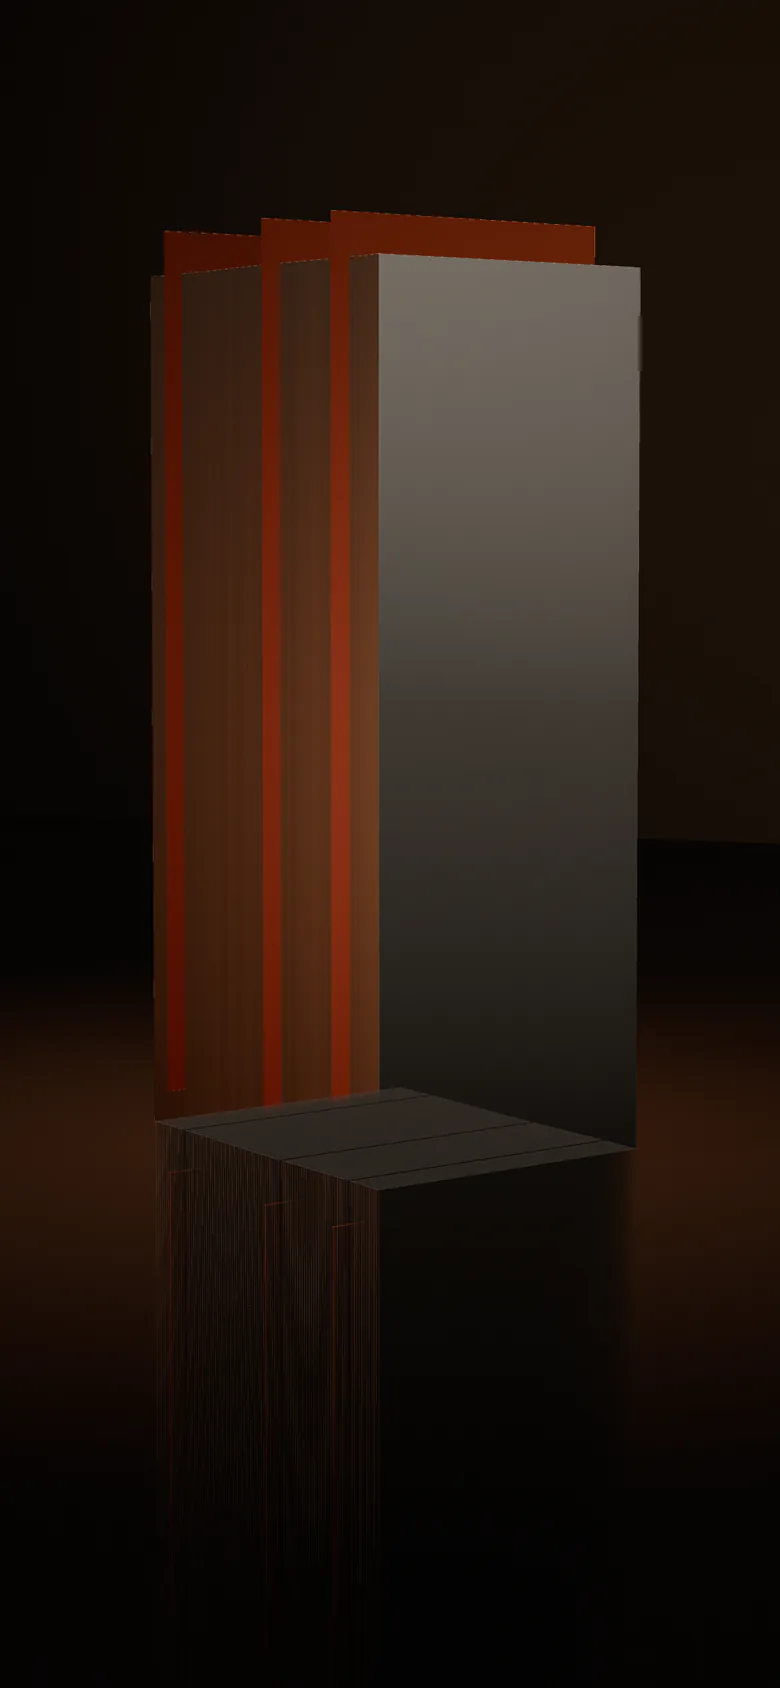
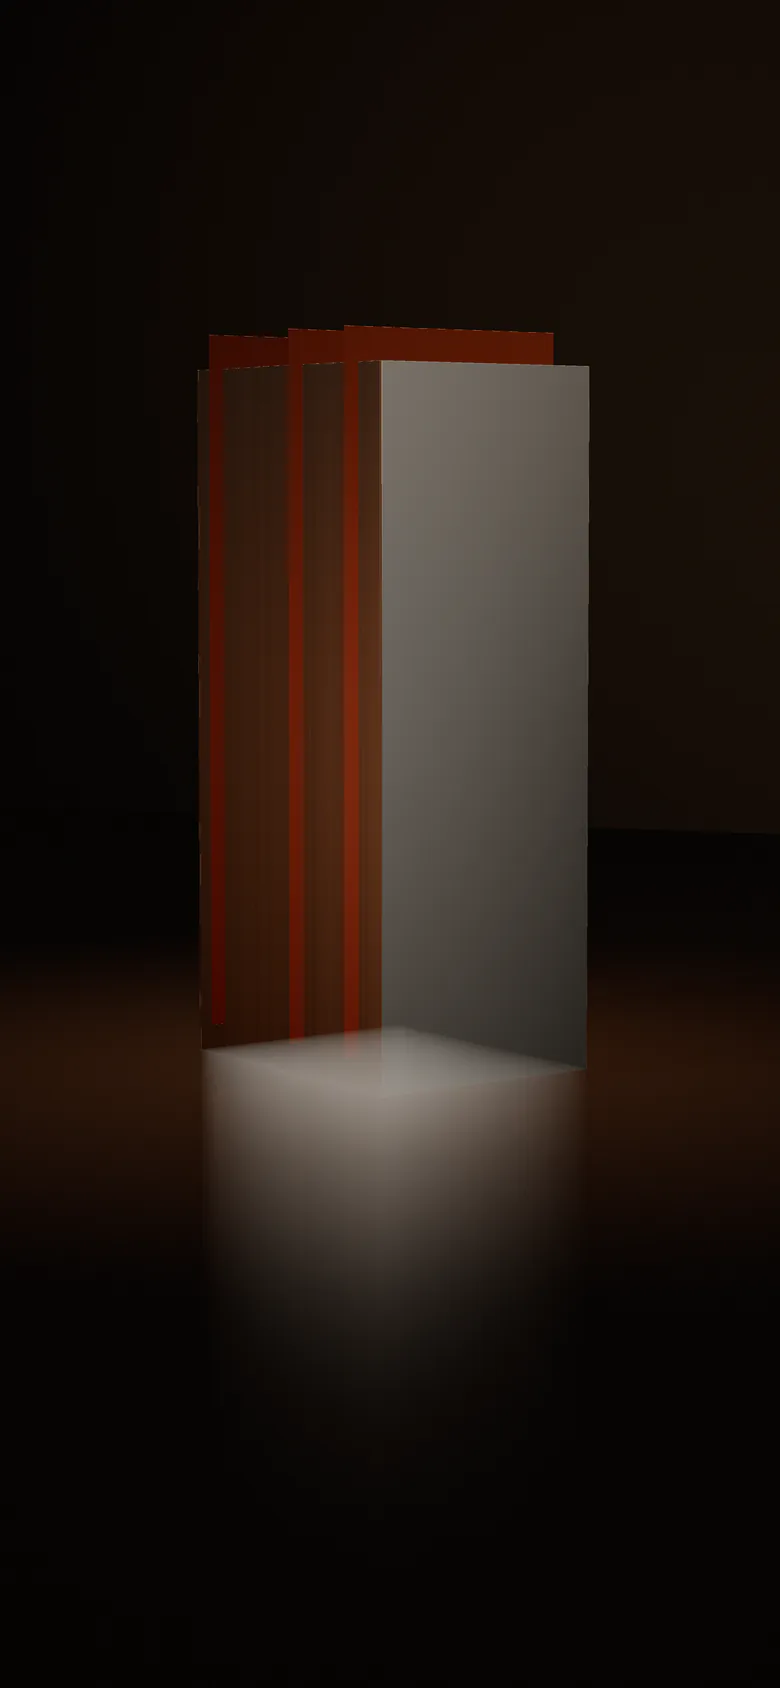
Second review round: metal that reads as metal, whole hero silhouette, legible page pose
- a hard strip softbox gives the broad aluminium faces a polished band; the block's outer
  corners keep their chamfer glint; the floor reflection is additive, so no dark plinth
- hero camera pulled back to show the whole monolith; the page pose explodes its layers
  deeper and is shot at a steeper angle, so it reads as a landing page in depth
- header pills sit on a band of the ground under them (studio or paper), so copy never
  runs into them; the rail shows only the current chapter's name on a phone and ticks
  for the rest; page-head breadcrumb moves below the actions; no counters above projects
- stills and OG cards re-rendered

Claude-Session: https://claude.ai/code/session_01PECqvRYuMqha9srKUyUX4Z

Changed region(s): [[0.1846, 0.1232, 0.8308, 0.8009], [0.0, 0.7085, 0.2462, 0.8009], [0.8, 0.6777, 0.9538, 0.7701]]

diff --git a/src/content/copy.ts b/src/content/copy.ts
@@ -260,7 +260,6 @@ const pl = {
   op: {
     title: 'OutreachPilot.pl: cold mailing do firm z CEIDG | Kacper Rękawek',
     description: 'OutreachPilot.pl to moje narzędzie do cold mailingu B2B: firmy z CEIDG i Google Maps, maile po polsku pisane przez AI, wysyłka z Twojej skrzynki. Od 0 zł.',
-    kicker: 'OutreachPilot.pl · mój produkt',
     h1: 'Cold mailing do firm z CEIDG i Google Maps.',
     lead: 'Polskie narzędzie SaaS do cold mailingu B2B. Wpisujesz branżę i miasto, AI pisze po polsku sekwencję trzech maili, a wysyłka idzie z Twojej własnej skrzynki.',
     what: {
@@ -307,7 +306,6 @@ const pl = {
   fl: {
     title: 'FastLanding.io: strony w 7–14 dni, chatboty AI | Kacper Rękawek',
     description: 'FastLanding.io to moje studio z Gliwic: landing page za 1 499 zł netto w 7 dni, strona firmowa w 14, chatboty AI, automatyzacje i widoczność w wyszukiwarkach AI.',
-    kicker: 'FastLanding.io · moje studio',
     h1: 'Strona w 7–14 dni, chatbot w 3–5. Termin jest w umowie.',
     lead: 'Studio z Gliwic, które pracuje zdalnie z firmami z całej Polski. Projekt graficzny, teksty i kod pisany ręcznie za stałą cenę.',
     usUk: 'Oferty na rynek amerykański i brytyjski mają osobne ceny w USD i GBP.',
@@ -318,7 +316,6 @@ const pl = {
   work: {
     title: 'Realizacje FastLanding: strony klientów | Kacper Rękawek',
     description: 'Strony klientów FastLanding, które możesz otworzyć: gabinet Stomatologia Mikroskopowa, agencja nieruchomości Hello Home i willa wakacyjna Casa Flamingo.',
-    kicker: 'Realizacje',
     h1: 'Strony klientów, które możesz otworzyć.',
     lead: 'Każdą opisuję tak, jak wygląda dziś. Wyników klientów nie podaję. Zrzuty ekranu pochodzą z portfolio FastLanding.',
     onPage: 'Na stronie',
@@ -338,7 +335,6 @@ const pl = {
   about: {
     title: 'O mnie | Kacper Rękawek, OutreachPilot.pl i FastLanding.io',
     description: 'Kacper Rękawek, przedsiębiorca z Gliwic, założyciel OutreachPilot.pl i FastLanding.io. Czym się zajmuje, dane firmy i profile, które potwierdzają jego tożsamość.',
-    kicker: 'O mnie',
     h1: 'Kacper Rękawek',
     lead: 'Jestem przedsiębiorcą z Gliwic. Prowadzę OutreachPilot.pl, narzędzie do cold mailingu B2B na polskich danych, i FastLanding.io, studio stron, chatbotów AI i aplikacji.',
     body: [
@@ -364,7 +360,6 @@ const pl = {
   contact: {
     title: 'Kontakt | Kacper Rękawek, OutreachPilot.pl i FastLanding.io',
     description: 'Umów 30 minut z Justyną Lajcą (Head of Sales) albo napisz. Wycena strony, chatbota lub pokaz OutreachPilot. Odpowiedź w ciągu 24 godzin w dni robocze.',
-    kicker: 'Kontakt',
     h1: 'Umów rozmowę albo napisz.',
     lead: 'Rozmowę z Justyną umówisz w kalendarzu. Na formularz i maile odpowiadam w ciągu 24 godzin w dni robocze.',
     crumb: 'Kontakt',
@@ -677,7 +672,6 @@ const en: Copy = {
   op: {
     title: 'OutreachPilot.pl: cold outreach in Poland | Kacper Rękawek',
     description: 'OutreachPilot.pl is my B2B cold-outreach tool for Poland: companies from CEIDG and Google Maps, AI-written emails in Polish, sent from your own mailbox. From PLN 0.',
-    kicker: 'OutreachPilot.pl · my product',
     h1: 'Cold outreach to companies from CEIDG and Google Maps.',
     lead: 'A Polish SaaS for B2B cold outreach. You enter a sector and a city, the AI writes a three-email sequence in Polish, and it is sent from your own mailbox.',
     what: {
@@ -724,7 +718,6 @@ const en: Copy = {
   fl: {
     title: 'FastLanding.io: websites and AI chatbots | Kacper Rękawek',
     description: 'FastLanding.io is my Gliwice studio: a landing page for PLN 1,499 net in 7 days, a business site in 14, AI chatbots, automations and visibility in AI search.',
-    kicker: 'FastLanding.io · my studio',
     h1: 'A website in 7–14 days, a chatbot in 3–5. The deadline is in the contract.',
     lead: 'A Gliwice studio working remotely with companies across Poland. Design, copy and hand-written code for a fixed price.',
     usUk: 'US and UK offers have their own USD and GBP pricing.',
@@ -735,7 +728,6 @@ const en: Copy = {
   work: {
     title: 'FastLanding work: client websites | Kacper Rękawek',
     description: 'Client websites delivered by FastLanding that you can open: Stomatologia Mikroskopowa dental clinic, Hello Home real estate and Casa Flamingo holiday villa.',
-    kicker: 'Work',
     h1: 'Client websites you can open.',
     lead: 'Each one is described as it looks today. No client results are quoted. Screenshots come from the FastLanding portfolio.',
     onPage: 'On the site',
@@ -755,7 +747,6 @@ const en: Copy = {
   about: {
     title: 'About | Kacper Rękawek, OutreachPilot.pl and FastLanding.io',
     description: 'Kacper Rękawek, entrepreneur from Gliwice, Poland, founder of OutreachPilot.pl and FastLanding.io. What he does, company details and his profiles elsewhere.',
-    kicker: 'About',
     h1: 'Kacper Rękawek',
     lead: 'I am an entrepreneur from Gliwice, Poland. I run OutreachPilot.pl, a B2B cold-outreach tool on Polish company data, and FastLanding.io, a studio for websites, AI chatbots and apps.',
     body: [
@@ -781,7 +772,6 @@ const en: Copy = {
   contact: {
     title: 'Contact | Kacper Rękawek, OutreachPilot.pl and FastLanding.io',
     description: 'Book 30 minutes with Justyna Lajca (Head of Sales) or write. A quote for a website or chatbot, or an OutreachPilot demo. Reply within 24 hours on working days.',
-    kicker: 'Contact',
     h1: 'Book a call or write to me.',
     lead: 'Book a call with Justyna in the calendar. I answer the form and emails within 24 hours on working days.',
     crumb: 'Contact',

diff --git a/src/film/monolith.ts b/src/film/monolith.ts
@@ -6,6 +6,7 @@
  * Plate local axes: X = thickness, Y = height, Z = depth.
  */
 import {
+  AdditiveBlending,
   Color, DynamicDrawUsage, InstancedBufferAttribute, InstancedMesh, Matrix4, MeshPhysicalMaterial, Quaternion, Vector3,
   Euler,
 } from 'three';
@@ -161,7 +162,7 @@ function page(): Pose {
   const plateQ = pageRot.clone().multiply(faceOn);
   const centre = v(0.1, plinthTop + 2.2 * Math.cos(LEAN) + 0.04, 0.2);
   for (const { i, b } of assign) {
-    P.p[i]!.set(b.u, b.v, 0.02 + b.layer * 0.34).applyQuaternion(pageRot).add(centre);
+    P.p[i]!.set(b.u, b.v, 0.02 + b.layer * 0.58).applyQuaternion(pageRot).add(centre);
     P.q[i]!.copy(plateQ);
     P.s[i]!.set(b.layer === 0 ? 2.2 : 1.4, b.h / H, b.w / D);
     P.order[i] = 0.5 * (1 - (b.v + 2.2) / 4.4);
@@ -183,7 +184,7 @@ export interface Monolith {
 export function buildMonolith(shadows: boolean): Monolith {
   const geo = new RoundedBoxGeometry(T, H, D, 5, T * 0.16);
   const mat = new MeshPhysicalMaterial({
-    color: '#ffffff', metalness: 1, roughness: 0.3, envMapIntensity: 1.25,
+    color: '#ffffff', metalness: 1, roughness: 0.28, envMapIntensity: 1.25,
   });
   const mesh = new InstancedMesh(geo, mat, N);
   mesh.instanceMatrix.setUsage(DynamicDrawUsage);
@@ -231,8 +232,10 @@ export function buildMonolith(shadows: boolean): Monolith {
         + ' vec3 faceN = abs(fy) > abs(fz) ? sign(fy) * vAy : sign(fz) * vAz;\n'
         + ' bool xDom = la.x > la.y && la.x > la.z;\n'
         + ' vec3 flatN = xDom ? (pressed < 0.4 ? sign(vLocalN.x) * vAx : faceN) : (la.y > la.z ? sign(vLocalN.y) * vAy : sign(vLocalN.z) * vAz);\n'
+        // the block's own outer corners keep their rounded chamfer: that is where the strip light glints
+        + ' float outer = step(0.2, -vLocalN.x) * (1.0 - vOcc.x) + step(0.2, vLocalN.x) * (1.0 - vOcc.y);\n'
         // (three's specular anti-aliasing reads nonPerturbedNormal, so it has to agree)
-        + (reflection ? '' : ' normal = normalize(mix(normal, flatN * faceDirection, 1.0 - smoothstep(2.0, 4.5, pitchPx)));\n nonPerturbedNormal = normal;\n'),
+        + (reflection ? '' : ' normal = normalize(mix(normal, flatN * faceDirection, (1.0 - smoothstep(2.0, 4.5, pitchPx)) * (1.0 - clamp(outer, 0.0, 1.0))));\n nonPerturbedNormal = normal;\n'),
       )
       .replace(
         '#include <opaque_fragment>',
@@ -240,7 +243,7 @@ export function buildMonolith(shadows: boolean): Monolith {
         // (a slice narrower than a few pixels would alias into a moire, so the gaps fade out with distance)
         ' float occN = smoothstep(0.5, 0.92, -vLocalN.x) * vOcc.x + smoothstep(0.5, 0.92, vLocalN.x) * vOcc.y;\n'
         + ' outgoingLight *= 1.0 - 0.94 * occN * smoothstep(2.0, 4.5, pitchPx);\n'
-        + (reflection ? ' diffuseColor.a *= 0.22 * exp(vWorldY * 1.1);\n' : '')
+        + (reflection ? ' diffuseColor.a *= 0.09 * exp(vWorldY * 2.4);\n' : '')
         + '#include <opaque_fragment>',
       );
   };
@@ -251,6 +254,8 @@ export function buildMonolith(shadows: boolean): Monolith {
   refMat.transparent = true;
   refMat.depthWrite = false;
   refMat.depthTest = false;
+  // the floor only ever adds light: dark faces vanish into it, the copper and the strip highlights mirror softly
+  refMat.blending = AdditiveBlending;
   refMat.onBeforeCompile = patch(true);
   refMat.customProgramCacheKey = () => 'plate-reflection';
   const reflection = new InstancedMesh(geo, refMat, N);

diff --git a/src/scripts/main.ts b/src/scripts/main.ts
@@ -40,6 +40,18 @@ function rail(): Cleanup {
   return () => { io.disconnect(); io2.disconnect(); root.classList.remove('rail-hide'); };
 }
 
+/* ── header ground: the band under the pills turns to paper while a light sheet runs beneath it ── */
+function headerGround(): Cleanup {
+  const light = Array.from(document.querySelectorAll<HTMLElement>('[data-sheet]:not(.sheet--dark)'));
+  const under = new Set<Element>();
+  const io = new IntersectionObserver((entries) => {
+    for (const e of entries) { if (e.isIntersecting) under.add(e.target); else under.delete(e.target); }
+    root.classList.toggle('hd-paper', under.size > 0);
+  }, { rootMargin: '0px 0px -92% 0px' });
+  light.forEach((el) => io.observe(el));
+  return () => { io.disconnect(); root.classList.remove('hd-paper'); };
+}
+
 /* ── menu: a full-screen dialog over everything ── */
 function menu(): Cleanup {
   const btn = document.querySelector<HTMLButtonElement>('.hd-menu');
@@ -163,6 +175,7 @@ function onPage(): void {
   initLeadForms();
   cleanups.push(
     rail(),
+    headerGround(),
     menu(),
     initRegistry(reduced),
     initShowcase(reduced),

diff --git a/src/film/studio.ts b/src/film/studio.ts
@@ -35,7 +35,9 @@ export function studioEnvironment(renderer: WebGLRenderer): Texture {
   // second strip, right front, lower: a cool-neutral kicker for the plate faces
   card(1.2, 7, 3.2, '#efeee9', 7, 3, 7, [0, 1.5, 0]);
   // softbox on the right: the page and the drawer faces pick it up
-  card(3, 6, 1.1, '#f6efe6', 9, 3, 0, [0, 1.5, 0]);
+  card(3, 6, 0.55, '#f6efe6', 9, 3, 0, [0, 1.5, 0]);
+  // a narrow hard strip beside it: on the broad aluminium faces it reads as the crisp band that says polished metal
+  card(1.1, 9, 7, '#fbf6ef', 9, 3.2, 1.7, [0, 1.5, 0]);
   // dark grey studio walls all round, so no metal face ever reads as a hole
   const walls = new Mesh(new CylinderGeometry(15, 15, 7, 32, 1, true), new MeshBasicMaterial({ color: new Color('#b8b0a6').multiplyScalar(0.09), side: BackSide }));
   walls.position.y = 2.5;

diff --git a/src/film/film.ts b/src/film/film.ts
@@ -42,10 +42,10 @@ interface Shot { pos: [number, number, number]; tgt: [number, number, number]; f
 
 /** Camera per pose. fx: where the object sits on a wide screen (fraction of width from the centre; + = right). */
 const SHOTS: Shot[] = [
-  { pos: [2.9, 1.9, 5.4], tgt: [0, 1.5, 0], fov: 30, fx: 0.2, drift: 0.34 },
+  { pos: [3.6, 2.05, 6.75], tgt: [0, 1.55, 0], fov: 30, fx: 0.2, drift: 0.34 },
   { pos: [1.1, 5.3, 7.4], tgt: [0, 1.6, 0], fov: 32, fx: 0.2, drift: 0.22 },
   { pos: [-4.6, 2.3, 3.0], tgt: [0.2, 1.0, -1.7], fov: 34, fx: -0.19, drift: 0 },
-  { pos: [2.5, 3.7, 9.2], tgt: [0.1, 2.7, 0], fov: 34, fx: 0.2, drift: 0.28 },
+  { pos: [0.65, 3.95, 10.9], tgt: [0.1, 2.95, 0.5], fov: 34, fx: 0.2, drift: 0.28 },
   { pos: [-3.9, 1.45, 5.3], tgt: [0, 1.6, 0], fov: 28, fx: -0.19, drift: 0.3 },
 ];
 

diff --git a/src/styles/global.css b/src/styles/global.css
@@ -136,7 +136,7 @@ html.film-live .still { opacity: 0; }
 @media (max-width: 959px) {
   .ch { height: var(--len-m, var(--len, 220svh)); }
   /* the object lives in the top half; copy sits low, on a quiet floor */
-  .stage-in { padding-top: 48svh; }
+  .stage-in { padding-top: 44svh; }
   .ch--first .stage-in { padding-top: 44svh; }
 }
 
